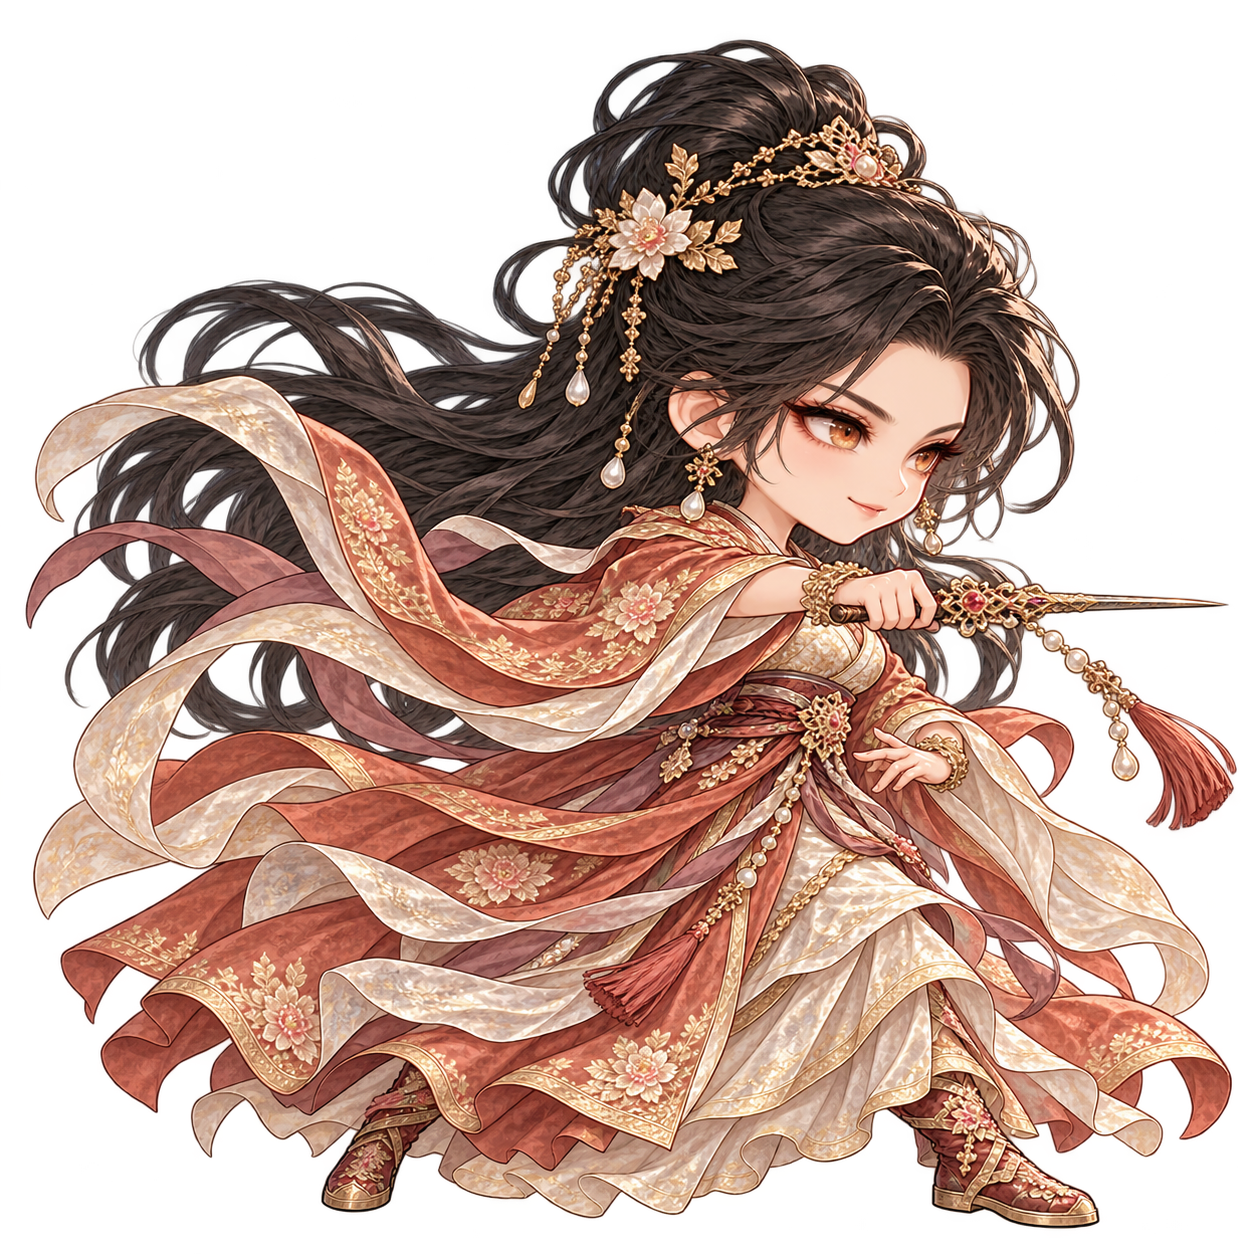
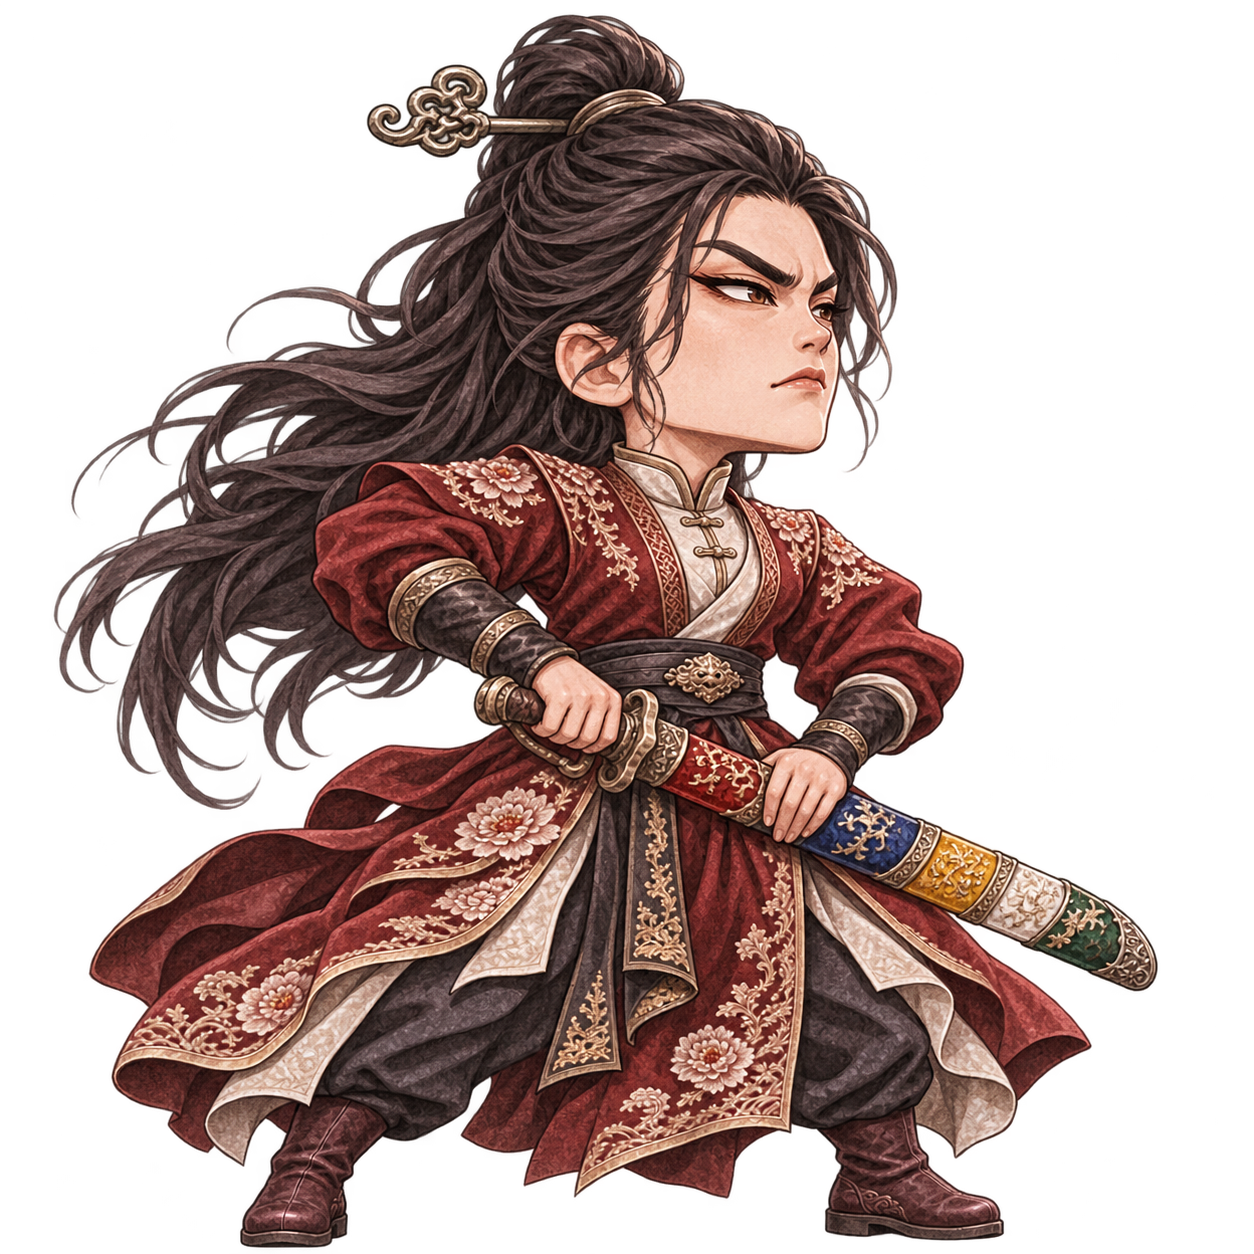
Add five character portraits and battle sprites and redesign Ma Haryeong

diff --git a/Assets/_Project/Scripts/Game/Systems/ArtLibrary.cs b/Assets/_Project/Scripts/Game/Systems/ArtLibrary.cs
@@ -77,6 +77,17 @@ namespace BiRyeoDo.Game.Systems
         // Exact SD identities only. Do not use title substrings or Standing-only aliases.
         private static readonly Dictionary<string, string> BattleKeys = new Dictionary<string, string>
         {
+            { "등여운", "deung_yeoun" },
+            { "쾌창 등여운", "deung_yeoun" },
+            { "등여호", "deung_yeoho" },
+            { "섬연창 등여호", "deung_yeoho" },
+            { "막적", "mak_jeok" },
+            { "적웅산도 막적", "mak_jeok" },
+            { "조걸", "jo_geol" },
+            { "쾌창 조걸", "jo_geol" },
+            { "초월", "cho_wol" },
+            { "검마", "cho_wol" },
+            { "검마 초월", "cho_wol" },
             { "변장한 비류연", "biry_old_master" },
             { "비류연(노사부)", "biry_old_master" },
             { "가짜 노사부", "biry_old_master" },
@@ -436,6 +447,20 @@ namespace BiRyeoDo.Game.Systems
         // Standing-only display-name aliases. Keep SD identity and default selection independent.
         private static readonly Dictionary<string, string> StandingKeys = new Dictionary<string, string>
         {
+            { "마하령", "ma_haryeong" },
+            { "철옥잠", "ma_haryeong" },
+            { "군웅회주", "ma_haryeong" },
+            { "등여운", "deung_yeoun" },
+            { "쾌창 등여운", "deung_yeoun" },
+            { "등여호", "deung_yeoho" },
+            { "섬연창 등여호", "deung_yeoho" },
+            { "막적", "mak_jeok" },
+            { "적웅산도 막적", "mak_jeok" },
+            { "조걸", "jo_geol" },
+            { "쾌창 조걸", "jo_geol" },
+            { "초월", "cho_wol" },
+            { "검마", "cho_wol" },
+            { "검마 초월", "cho_wol" },
             { "남궁진", "namgung_jin" },
             { "전광검", "namgung_jin" },
             { "전광검 남궁진", "namgung_jin" },

diff --git a/Docs/ART_LOOKS.md b/Docs/ART_LOOKS.md
@@ -1,5 +1,35 @@
 # 캐릭터 외형 정리
 
+## 신규 전신 원화 참조 전투 SD 6종 — 2026-11-09
+
+같은 날 제작한 각 `Standing/<key>.png`를 인물 참조로, 기존 `Battle/i_jinseol.png`를 SD 비율·회화 질감 참조로 사용했다. 모두 오른쪽을 향하는 1254×1254 투명 RGBA PNG이며 머리·장화·무기 전체가 프레임 안에 들어간다. 얼굴을 일괄 미화하지 않고 원화의 연령감·얼굴형·체형을 유지했다.
+
+| 인물 | Battle 키 | 유지한 특징과 전투 자세 |
+|---|---|---|
+| 등여운 | `deung_yeoun` | 긴 각진 얼굴·짧은 수염·회색 관자·남청 무복, 양손으로 묵빛 창을 비스듬히 든 절제된 방어 자세 |
+| 등여호 | `deung_yeoho` | 넓은 턱·수염 없는 얼굴·다부진 체격·적갈 띠, 몸을 낮추어 묵빛 창을 앞으로 내민 자세 |
+| 막적 | `mak_jeok` | 거구·큰 배·거친 얼굴·고르지 않은 치아·삐딱한 웃음·해진 적갈 옷·돈주머니, 한 손에 큰 도를 들고 다른 손으로 통행료를 요구하는 손짓 |
+| 조걸 | `jo_geol` | 철투구·짧은 콧수염·검은 중갑·금속 정강이 보호구·회녹 소매, 하마 상태에서 양손 창으로 맞서는 자세 |
+| 초월 | `cho_wol` | 중년의 마른 얼굴·교차 흉터·먹색 겹옷·은룡 양각의 검은 검집, 검을 뽑기 직전 양손을 칼자루와 검집에 둔 자세 |
+| 마하령 | `ma_haryeong` | 힘 있는 턱·날 선 눈매·비녀·목을 여민 적색 무복·바지·낮은 장화·오색 칼집, 도를 뽑기 직전의 도도한 자세. 평소 모습만 표현 |
+
+5종을 새로 추가하고 기존 마하령 SD는 새 원화에 맞춰 교체했다. 마하령의 이전 SD는 작업공간 `art-backups/2026-11-09-ma-haryeong-battle/`에 백업했으며 기존 Unity GUID는 유지했다. 개인 이름과 호칭은 `ArtLibrary.BattleKeys`의 정확한 일치로 연결했다. 전신 원화·대사·무공·수치·출전 구성은 변경하지 않는다.
+
+## 대화 입화 5종 추가·마하령 재제작 — 2026-11-09
+
+원문을 대조하여 1024×1536 투명 RGBA 전신 Standing을 제작했다. 얼굴형·수염·추정 연령대·복식 배색·자세는 명시된 경우 외에는 미술 해석이며 원작 확정 설정이 아니다. 미형 얼굴을 반복하지 않고 체격·표정·실루엣으로 인물을 구분한다.
+
+| 인물 / Standing 키 | 원작 근거 | 그림에 적용한 미술 해석 |
+|---|---|---|
+| 등여운 / `deung_yeoun` | 1권 총표두 쾌창, 등여호의 형, 묵빛 창, 국주를 지키려는 형제의 분노 | 길고 각진 중년 얼굴·짧은 수염·마른 장신·절제된 자세·남청색 표사 무복 |
+| 등여호 / `deung_yeoho` | 1권 부총표두 섬연창, 등여운의 동생, 같은 묵빛 창과 연계 창법 | 넓은 턱·면도한 얼굴·다부진 체격·도전하는 손짓·형과 같은 계열 무복에 적갈 띠. 형제의 성격 차이를 확정하는 설정은 아님 |
+| 막적 / `mak_jeok` | 6권 적웅산도·적웅채주, 거대한 몸집과 우락부락한 얼굴, 적웅도, 약자를 골라 통행료를 뜯는 계산적 태도 | 두꺼운 목·큰 배·뭉툭한 코·고르지 않은 수염과 치아·삐딱한 웃음·해진 적갈색 옷·돈주머니·큰 도 |
+| 조걸 / `jo_geol` | 8권 철각비마대 쾌창, 주광과 비쾌쌍창, 중갑과 창, 오른손으로 창을 잡는 기마대원 | 하마한 대화 자세·낮은 철투구·짧은 콧수염·검은 중갑·철제 정강이 보호구. 장군 계급을 추가하지 않음 |
+| 검마 초월 / `cho_wol` | 8권 중년·냉소·흑천십비, 얼굴을 가로지르는 좌우 사선의 교차 흉터, 먹빛 검집에 양각 은룡 | 마른 각진 얼굴·굳은 입매·먹색 겹옷·칼집에 손을 얹은 정적인 자세. 교차 흉터와 은룡을 크게 읽히도록 배치 |
+| 마하령 / `ma_haryeong` | 8~9권 군웅회주 철옥잠, 도도함·자존심·급한 성미, 허리의 오색창연한 도, 신공으로 체형을 바꾼 평소 모습 | 힘 있는 턱·날 선 눈썹·치켜든 턱·허리에 손을 댄 자세·목을 여민 적색 무복·바지·낮은 장화·오색 칼집. 비녀와 오색의 구체적 배합은 미술 해석 |
+
+사용자 선택에 따라 마하령은 **평소 모습만** 다시 제작했다. 본래 체형·변신 입화는 만들지 않았다. 기존 `ma_haryeong.png.meta` GUID를 보존하고 PNG만 교체했다. 대화 이름·개인 호칭은 Standing 전용 별칭으로 연결했으며 전투 SD는 이번 작업 범위에 포함하지 않는다.
+
 ## 기존 원화 참조 전투 SD 추가 8차 — 2026-11-08
 
 현재 Standing의 같은 키 원화를 직접 참조하고 기존 SD 비율·회화 표현에 맞춰 오른쪽 방향 1254×1254 RGBA 5종을 제작했다. 원화와 이전 SD는 보존한다. 아래 얼굴·복식 배색·자세는 기존 원화를 따른 미술 해석이다.

diff --git a/Story/GAME_MAPPING.md b/Story/GAME_MAPPING.md
@@ -1,5 +1,31 @@
 # 스토리 → 게임 요소 매핑
 
+## 신규 전신 원화 참조 Battle SD 6종 — 2026-11-09
+
+| 인물 | 외형 근거 | 리소스 |
+|---|---|---|
+| 등여운 | 1권 총표두 쾌창·묵빛 창, 신규 Standing의 긴 얼굴·수염·남청 무복 | `Art/Battle/deung_yeoun.png` |
+| 등여호 | 1권 부총표두 섬연창·묵빛 창, 신규 Standing의 넓은 턱·다부진 체격·적갈 띠 | `Art/Battle/deung_yeoho.png` |
+| 막적 | 6권 적웅채주·거구·험한 얼굴·적웅도, 신규 Standing의 거친 웃음·돈주머니·해진 옷 | `Art/Battle/mak_jeok.png` |
+| 조걸 | 8권 철각비마대 쾌창·중갑, 신규 Standing의 철투구·갑주·창 | `Art/Battle/jo_geol.png` |
+| 초월 | 8권 중년·얼굴의 교차 흉터·검은 검집의 양각 은룡, 신규 Standing의 먹색 겹옷 | `Art/Battle/cho_wol.png` |
+| 마하령 | 8~9권 도도한 군웅회주·오색 도·평소 체형, 새 Standing의 적색 무복·바지·장화 | `Art/Battle/ma_haryeong.png` 교체·기존 GUID 유지 |
+
+모두 오른쪽 방향 1254×1254 RGBA 전투 SD다. 얼굴·복식 세부·새 전투 자세는 신규 원화를 따른 미술 해석이다. 개인 이름·호칭은 Battle 전용 정확 일치로 연결했으며 공동 호칭을 한 명으로 치환하지 않는다. 원작 사건·생사·무공·대사·전투 구성은 변경하지 않는다. Unity 화면 렌더링은 미검증이다.
+
+## 대화 Standing 5종 추가·마하령 수정 — 2026-11-09
+
+| 인물 | 원문 근거 | 적용 파일 (`Art/Standing/`) / 대화 연결 |
+|---|---|---|
+| 등여운 | 1권 총표두 쾌창·등씨 형제·묵빛 창 | `deung_yeoun.png` / 등여운·쾌창 등여운 |
+| 등여호 | 1권 부총표두 섬연창·등씨 형제·묵빛 창 | `deung_yeoho.png` / 등여호·섬연창 등여호 |
+| 막적 | 6권 적웅채주·거구·험한 얼굴·적웅도·통행료 갈취 | `mak_jeok.png` / 막적·적웅산도 막적 |
+| 조걸 | 8권 철각비마대 중갑 기마대원·주광과 비쾌쌍창 | `jo_geol.png` / 조걸·쾌창 조걸 |
+| 초월 | 8권 검마·중년·냉소·얼굴의 교차 흉터·먹빛 검집의 양각 은룡 | `cho_wol.png` / 초월·검마·검마 초월 |
+| 마하령 | 8~9권 군웅회주 철옥잠·도도한 성미·오색 도·신공으로 바꾼 평소 체형 | `ma_haryeong.png` 교체 / 기존 이름 해석·GUID 유지 |
+
+외형의 명시 근거와 창작 세부를 `Docs/ART_LOOKS.md`에 구분했다. 마하령은 사용자 선택대로 평소 모습만 제작했다. 이야기 대사·사건·무공·생사·전투 구성은 변경하지 않는다. 전투 SD 추가 없이 Standing 전용 별칭과 Unity 메타파일을 반영했다.
+
 ## 기존 원화 참조 Battle SD 추가 8차 — 2026-11-08
 
 | 인물 | 근거 | 추가 리소스 |

diff --git a/Docs/STANDING_DIALOGUE_AUDIT.md b/Docs/STANDING_DIALOGUE_AUDIT.md
@@ -1,5 +1,11 @@
 # 대화 화자 Standing 누락 조사
 
+## 2026-11-09 추가 작업 확인
+
+등여운(2장)·등여호(2장)·막적(14장)·조걸(15장)·초월(16장)의 전신 입화와 개인 이름·호칭 연결을 추가했다. 마하령은 평소 모습의 입화로 교체했다. 아래 과거 조사표에서 이 다섯 명은 이제 누락 대상이 아니다.
+
+현재 소스의 `StoryLine.Parse`·`StoryEpisodes.ReplayScenes`·도입/후일담/막간·나예린 추억·전투 데이터/보스 단계 대사를 외부 .NET 도구로 재확인했다. 서로 다른 화자 표기 267종 중 Standing 파일을 찾지 못하는 표기는 작업 전 86종에서 작업 후 81종으로 줄었다. 이번 여섯 명은 모두 실제 `ArtLibrary.DialoguePortrait` 경로에서 파일을 찾는다. 새 집계는 아래 2026-11-01 조사와 코드·수집 범위가 달라 직접 비교하지 않는다. Unity 텍스처 로딩은 실제 파일 존재 확인으로 대체했으며 Unity 렌더링은 검증하지 않았다.
+
 조사일: 2026-11-01. 초기 조사 기준 커밋: `2c35fbd`. 아래 집계는 중요 인물·모습 입화 12종과 대화 별칭을 추가한 뒤 다시 확인한 결과다. 진행 중인 여정 지도 변경은 조사 결과에 영향 없음.
 
 66개 스테이지의 일반·어려움·극악 본문, 실제 사용하는 구간 장면, 선택지의 모든 결과, 도입·막간·후일담, 나예린 추억, 해당 전투의 보스 단계 대사와 화룡멸겁대진 연출 대사를 조사했다. 단순히 지문에 이름이 언급된 인물이나 더 이상 사용하지 않는 옛 구간 대사는 누락 인물로 세지 않았다.

diff --git a/Docs/STANDING_ART_CATALOG.md b/Docs/STANDING_ART_CATALOG.md
@@ -2,6 +2,17 @@
 
 경로: `Assets/_Project/Resources/Art/Standing/`
 
+2026-11-09: 아래 대화 전신 입화 5종을 추가하고 마하령을 평소 모습으로 재제작했다. 모두 1024×1536 투명 RGBA이며 원작 근거와 미술 해석은 `ART_LOOKS.md`의 같은 날짜 항목에 기록했다.
+
+| 대상 | 파일 | 작업 |
+|---|---|---|
+| 쾌창 등여운 | [`deung_yeoun.png`](../Assets/_Project/Resources/Art/Standing/deung_yeoun.png) | 신규 |
+| 섬연창 등여호 | [`deung_yeoho.png`](../Assets/_Project/Resources/Art/Standing/deung_yeoho.png) | 신규 |
+| 적웅산도 막적 | [`mak_jeok.png`](../Assets/_Project/Resources/Art/Standing/mak_jeok.png) | 신규 |
+| 쾌창 조걸 | [`jo_geol.png`](../Assets/_Project/Resources/Art/Standing/jo_geol.png) | 신규 |
+| 검마 초월 | [`cho_wol.png`](../Assets/_Project/Resources/Art/Standing/cho_wol.png) | 신규 |
+| 철옥잠 마하령 | [`ma_haryeong.png`](../Assets/_Project/Resources/Art/Standing/ma_haryeong.png) | 교체·기존 GUID 유지 |
+
 기존 비류연·동료 5명을 보존하고 옛 `Characters` 폴더에만 있던 51개를 추가했다(이후 `Characters` 폴더와 그 코드는 삭제했다). 인물 45명(집단은 대표 1명), 야수 3종, 기관 소품 3종이다. 새 파일은 1024×1536 RGBA PNG이며 개별 Unity 메타데이터를 갖는다.
 
 원작 확인 외형은 `ART_LOOKS.md`·`Story/CHARACTERS.md` 및 관련 권 분석을 참고했다. 자세·의상 장식·조명은 게임용 창작 표현이다. SD는 변경하지 않는다.
